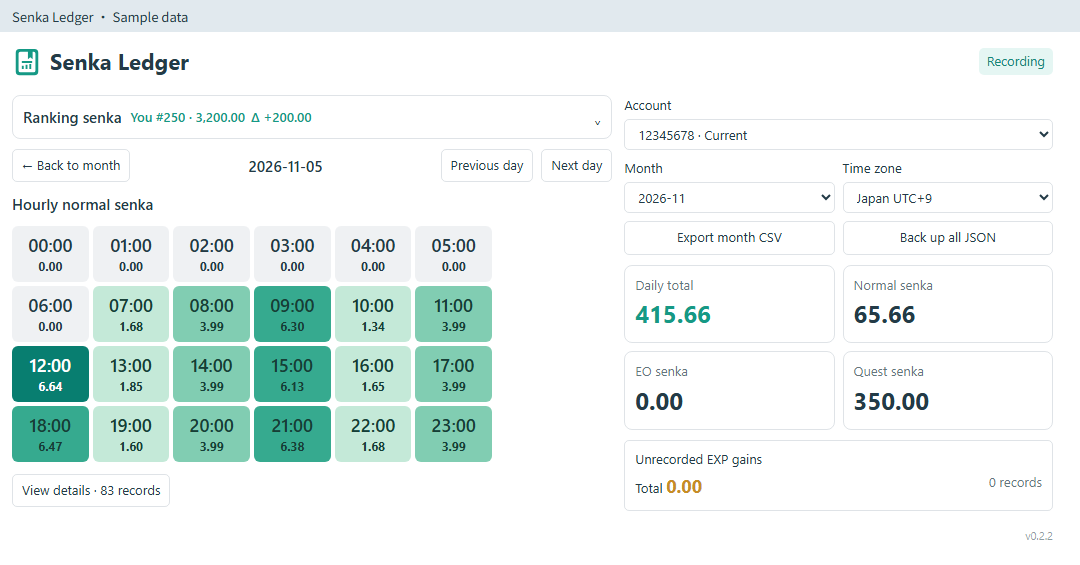
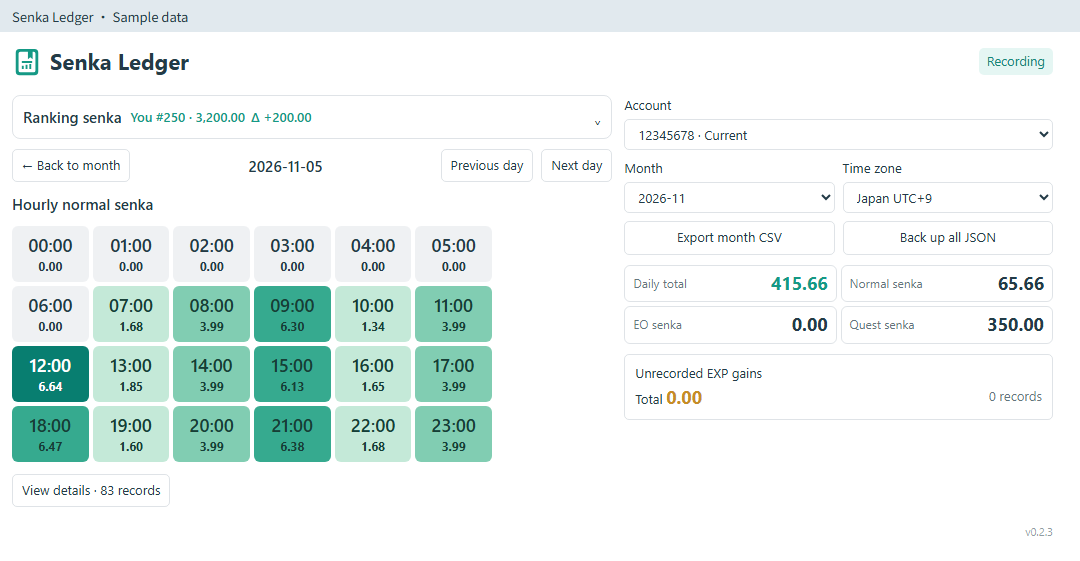
Release v0.2.3 with compact summary cards

diff --git a/src/styles.js b/src/styles.js
@@ -10,7 +10,7 @@ module.exports = `
 .sl .controls{display:grid;grid-template-columns:repeat(2,minmax(0,1fr));gap:8px}.sl .controls label{display:flex;flex-direction:column;gap:3px;min-width:0}.sl .controls label:first-child{grid-column:1/-1}
 .sl select,.sl button{font:inherit;color:inherit;background:transparent;border:1px solid var(--sl-line);border-radius:5px;padding:5px 9px;min-width:0}.sl select{width:100%;text-overflow:ellipsis}.sl select option{color:#172d3b;background:#f6f9fb}.sl button{cursor:pointer;overflow-wrap:anywhere}.sl .controls button{align-self:end;min-height:34px;white-space:normal}
 .sl button:disabled{opacity:.4;cursor:default}.sl button:focus-visible,.sl select:focus-visible{outline:2px solid #16a18a;outline-offset:2px}
-.sl .cards{display:grid;grid-template-columns:repeat(2,minmax(0,1fr));gap:8px}.sl .card{border:1px solid var(--sl-line);border-radius:8px;padding:10px;min-width:0}.sl .card-label{line-height:1.4;overflow-wrap:anywhere}.sl .value{font-size:clamp(16px,10cqi,24px);font-variant-numeric:tabular-nums;font-weight:650;overflow-wrap:anywhere}.sl .accent{color:#159985}.sl .amber{color:#c68d26}
+.sl .cards{display:grid;grid-template-columns:repeat(2,minmax(0,1fr));gap:4px}.sl .card{display:flex;align-items:center;justify-content:space-between;flex-wrap:wrap;gap:2px 8px;border:1px solid var(--sl-line);border-radius:6px;padding:6px 8px;min-width:0}.sl .card-label{line-height:1.4;overflow-wrap:anywhere}.sl .card .card-label{font-size:12px}.sl .value{font-size:18px;line-height:1.3;font-variant-numeric:tabular-nums;font-weight:650;overflow-wrap:anywhere;max-width:100%}.sl .card .value{margin-left:auto}.sl .accent{color:#159985}.sl .amber{color:#c68d26}
 .sl .error{border:1px solid #d56b6b;padding:10px;white-space:pre-wrap;overflow-wrap:anywhere}.sl .scroll{overflow:auto;max-width:100%;min-width:0}.sl table{border-collapse:collapse;width:100%;font-variant-numeric:tabular-nums}.sl th,.sl td{text-align:left;padding:7px 9px;border-bottom:1px solid var(--sl-line);white-space:nowrap}.sl th{font-size:12px;opacity:.75;font-weight:500}.sl .details-table{min-width:410px}.sl .unknown-table{min-width:480px}.sl .rank-table{min-width:460px}.sl .stamp span{display:block;line-height:1.4}.sl .rank-own{font-weight:600;color:#159985}
 .sl .section-head{margin-bottom:10px}.sl .calendar{display:grid;grid-template-columns:repeat(7,minmax(0,1fr));gap:3px;min-width:280px;max-width:480px}.sl .weekday{text-align:center;opacity:.7;padding:2px 0 5px}
 .sl .ranking{border:1px solid var(--sl-line);border-radius:8px;padding:9px 10px;min-width:0}.sl .rank-summary{cursor:pointer;display:flex;flex-wrap:wrap;gap:5px 9px;align-items:center;justify-content:space-between}.sl .rank-summary::after{content:'⌄';margin-left:auto}.sl .ranking[open] .rank-summary::after{content:'⌃'}
@@ -18,7 +18,7 @@ module.exports = `
 .sl .hours{display:grid;grid-template-columns:repeat(6,minmax(0,1fr));gap:4px;min-width:150px;max-width:480px}.sl .detail-trigger{margin-top:12px}.sl .unknown-trigger{display:grid;grid-template-columns:minmax(0,1fr) auto;gap:4px 8px;text-align:left;width:100%;padding:9px 10px}.sl .unknown-heading{grid-column:1/-1}.sl .unknown-total{min-width:0;overflow-wrap:anywhere}.sl .unknown-total .value{font-size:18px}.sl .activity-pane>.ranking{margin-bottom:10px}.sl .rank-change{display:inline-block;white-space:nowrap;margin-left:6px}.sl .empty{padding:16px 8px;text-align:center;opacity:.65;white-space:normal;overflow-wrap:anywhere}.sl .foot{font-size:11px;opacity:.5;text-align:right;margin-top:16px}
 .sl .detail-dialog{width:760px;max-width:calc(100vw - 16px);max-height:calc(100dvh - 24px);padding:0;border:1px solid var(--sl-line);border-radius:10px;background:#fff;color:#233b47;box-shadow:0 12px 48px #0004;overflow:hidden}.sl .detail-dialog[open]{display:flex;flex-direction:column}.sl .detail-dialog::backdrop{background:#0006}.sl .dialog-header,.sl .dialog-toolbar,.sl .dialog-footer{display:flex;align-items:center;justify-content:space-between;flex-wrap:wrap;gap:8px;padding:10px 12px;flex:none}.sl .dialog-header h3{flex:1;min-width:0}.sl .dialog-header{border-bottom:1px solid var(--sl-line)}.sl .dialog-toolbar{font-size:12px}.sl .dialog-body{min-height:0;overflow:auto;overscroll-behavior:contain;padding:0 12px}.sl .dialog-footer{border-top:1px solid var(--sl-line);font-variant-numeric:tabular-nums}.bp6-dark .sl .detail-dialog{background:#202b35;color:#d8e3e9}
 @media(prefers-color-scheme:dark){.sl .detail-dialog{background:#202b35;color:#d8e3e9}}
-@container(max-width:220px){.sl .controls{grid-template-columns:minmax(0,1fr)}.sl .cards{grid-template-columns:minmax(0,1fr)}.sl .card{padding:8px}.sl .unknown-trigger{grid-template-columns:minmax(0,1fr)}}
+@container(max-width:220px){.sl .controls{grid-template-columns:minmax(0,1fr)}.sl .cards{grid-template-columns:minmax(0,1fr)}.sl .unknown-trigger{grid-template-columns:minmax(0,1fr)}}
 @container(max-width:440px){.sl .hours{grid-template-columns:repeat(4,minmax(0,1fr))}}
 @container(max-width:300px){.sl .hours{grid-template-columns:repeat(3,minmax(0,1fr))}}
 @container(max-width:230px){.sl .hours{grid-template-columns:repeat(2,minmax(0,1fr))}.sl .cards{grid-template-columns:minmax(0,1fr)}}

diff --git a/src/panel.js b/src/panel.js
@@ -135,7 +135,7 @@ function createPanel(React, service) {
             h('span', { className: 'unknown-heading card-label' }, t('unknown')),
             h('span', { className: 'unknown-total', 'data-summary': 'unknownTotal' }, t('total'), ' ', h('strong', { className: 'amber value' }, fmt(unknownTotal))),
             h('span', { className: 'muted' }, t('recordCount', { count: unknown.length }))))),
-      h('div', { className: 'foot' }, 'v0.2.2'),
+      h('div', { className: 'foot' }, 'v0.2.3'),
       h('dialog', { ref: dialog, className: 'detail-dialog', 'aria-labelledby': titleId, 'data-dialog': 'details', onClose: closeDetails, onCancel: closeDetails,
         onClick: event => { const box = event.currentTarget.getBoundingClientRect(); if (event.target === event.currentTarget && (event.clientX < box.left || event.clientX > box.right || event.clientY < box.top || event.clientY > box.bottom)) closeDetails() } },
         detailKind && h(React.Fragment, null,
